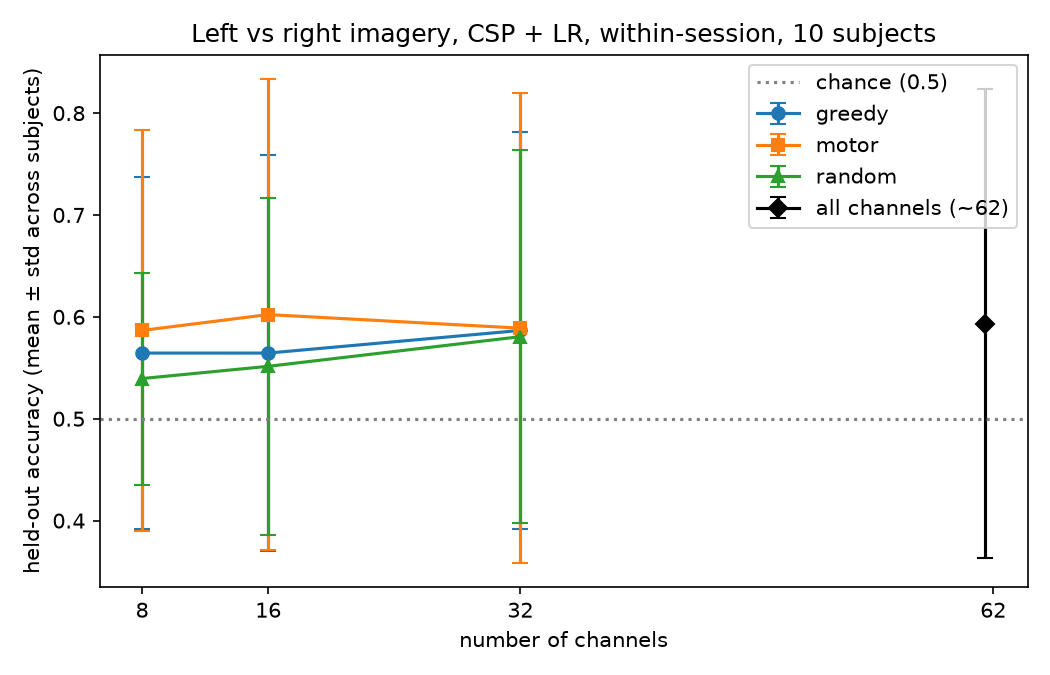
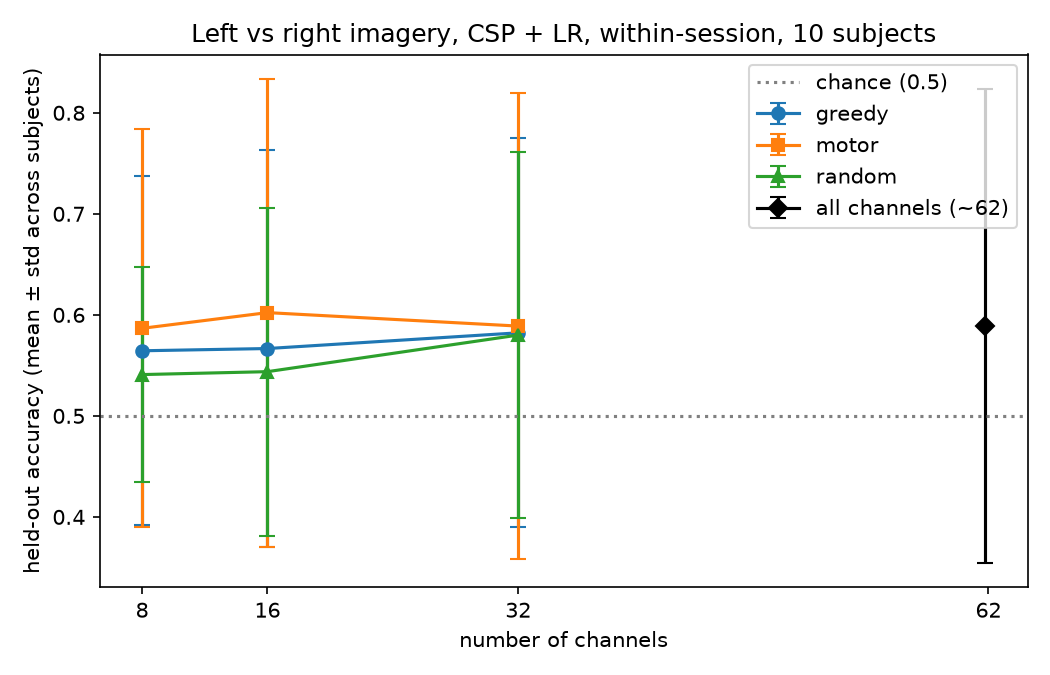
Kept quiet channels in bad-channel check and shared channel set across sessions

diff --git a/preprocess.py b/preprocess.py
@@ -10,10 +10,26 @@ def prepare_epochs(subject=1):
     return epochs_from_raw(raw, events)
 
 
+FLAT_STD = 1e-6   # volts: below 1 uV of 8-30 Hz activity means no real signal
+NOISY_Z = 5.0     # robust z above this means unusually loud (likely a bad contact)
+
+
 def epochs_from_raw(raw, events):
     """Shared by every dataset: montage, 8-30 Hz filter, bad-channel check, epochs.
 
     `events` must mark cue onset with code 2 (left) / 3 (right).
+    """
+    raw_filtered, bad_channels = filter_and_flag(raw)
+    return make_epochs(raw_filtered, events, bad_channels)
+
+
+def filter_and_flag(raw):
+    """Attach the montage, band-pass 8-30 Hz, and flag flat or noisy EEG channels.
+
+    One-sided on purpose: a channel that is merely quieter than the rest is kept.
+    Low amplitude can be real signal (e.g. BNCI's C5 sits next to the reference
+    and still correlates ~0.9 with C3); a loud channel usually means a bad contact.
+    Uses no labels, so it can't leak class information.
     """
     montage = mne.channels.make_standard_montage("colin27_1005")
     raw.set_montage(montage)
@@ -33,14 +49,18 @@ def epochs_from_raw(raw, events):
     bad_channels = []
     print("Median channel std:", round(median * 1e6, 1), "uV")
     for name, std, z in zip(eeg_names, channel_std, robust_z):
-        if std < 1e-6:
+        if std < FLAT_STD:
             print(f"FLAT    {name}: std = {std * 1e6:.1f} uV")
             bad_channels.append(name)
-        elif abs(z) > 5:
-            print(f"OUTLIER {name}: std = {std * 1e6:.1f} uV, robust z = {z:.1f}")
+        elif z > NOISY_Z:
+            print(f"NOISY   {name}: std = {std * 1e6:.1f} uV, robust z = {z:.1f}")
             bad_channels.append(name)
+    return raw_filtered, bad_channels
 
-    raw_filtered.info["bads"] = bad_channels
+
+def make_epochs(raw_filtered, events, bad_channels):
+    """Cut left/right epochs (-0.5 to 4.0 s around the cue), dropping `bad_channels`."""
+    raw_filtered.info["bads"] = list(bad_channels)
 
     epochs = mne.Epochs(
         raw_filtered,

diff --git a/load_bnci.py b/load_bnci.py
@@ -24,7 +24,7 @@ import mne
 import numpy as np
 from moabb.datasets import BNCI2014_001
 
-from preprocess import epochs_from_raw
+from preprocess import epochs_from_raw, filter_and_flag, make_epochs
 
 SESSIONS = {"T": "0train", "E": "1test"}
 # MOABB codes -> the codes used for PhysioNet (load_data.EVENT_ID), so the
@@ -49,15 +49,32 @@ def load_session(subject, session):
 
 
 def prepare_bnci_epochs(subject, session="T"):
-    """Same preprocessing as PhysioNet: 8-30 Hz, bad-channel check, epochs -0.5 to 4.0 s."""
+    """One session on its own: 8-30 Hz, bad-channel check, epochs -0.5 to 4.0 s."""
     raw, events = load_session(subject, session)
     return epochs_from_raw(raw, events)
 
 
+def prepare_bnci_sessions(subject):
+    """Both sessions with the SAME channel set, for cross-session use.
+
+    Each session is checked separately; a channel flagged in either session is
+    dropped from both, so a model trained on session T can be applied to E.
+    The check uses no labels, so looking at session E here leaks nothing.
+    """
+    filtered, events, bads = {}, {}, set()
+    for session in SESSIONS:
+        raw, events[session] = load_session(subject, session)
+        filtered[session], session_bads = filter_and_flag(raw)
+        bads.update(session_bads)
+    epochs = {s: make_epochs(filtered[s], events[s], sorted(bads)) for s in SESSIONS}
+    assert epochs["T"].ch_names == epochs["E"].ch_names
+    return epochs
+
+
 if __name__ == "__main__":
     mne.set_log_level("WARNING")
-    for session in SESSIONS:
-        epochs = prepare_bnci_epochs(1, session)
+    sessions = prepare_bnci_sessions(1)
+    for session, epochs in sessions.items():
         y = epochs.events[:, 2]
         print(
             f"subject 1, session {session}: {len(y)} trials "

diff --git a/AGENTS.md b/AGENTS.md
@@ -174,12 +174,12 @@ Any prototype must prioritize **electrical safety, isolation, and suitable acqui
 | --- | --- |
 | Documentation (this file, README, learning blueprint) | Implemented |
 | Dataset loading (eegmmidb) | Implemented, untested — `load_data.py` loads subject 1, runs 4/8/12, renames T0/T1/T2 per run before concatenating (checked by hand: 23 left / 22 right / 45 rest) |
-| Dataset loading (BCI Competition IV 2a) | Implemented, untested — `load_bnci.py` via MOABB 1.7.2 (`BNCI2014_001`), data in `data/MNE-bnci-data/`. Checked by hand against the raw .mat file: EEG samples identical, MOABB's stim events mark trial start, so events are shifted +2 s to cue onset. Subject 1: 144 trials per session (72 left / 72 right), 22 EEG channels (C5 flagged as low-variance outlier in both sessions), 250 Hz. Quick CSP 5-fold check: session T 0.827 ± 0.114, session E 0.910 ± 0.040. License CC BY-ND 4.0: don't commit derived data. |
-| Preprocessing & channel validation | Implemented, untested — `preprocess.py`: `colin27_1005` montage, 8–30 Hz band-pass, robust-z bad-channel check on filtered data (threshold \|z\| > 5; subject 1 flags T10), epochs −0.5 to 4.0 s for left/right → shape (45, 63, 721) |
-| Full-channel baseline | Implemented, untested — `baseline.py`: log band power (0.5–4.0 s) + L2 logistic regression, stratified 5-fold, seed 0. Subject 1, within-session: accuracy 0.533 ± 0.093 vs 0.511 majority-class (24/45 vs 23/45). CSP (6 filters, log-variance, fit inside each training fold) + logistic regression on the same folds: 0.778 ± 0.157. |
-| Channel subset optimization | Implemented, untested — `select_channels.py`: greedy forward selection with CSP + LR, scored by inner 5-fold CV on training trials only; objective `accuracy − 0.005·|S|` picks a size along the greedy path. Subject 1, within-session, outer 5-fold: full 63ch 0.778 ± 0.157, greedy 8ch 0.644 ± 0.183, 16ch 0.711 ± 0.099, 32ch 0.689 ± 0.214, penalized (5–16ch) 0.667 ± 0.136. Chosen channels differ a lot between folds (no channel picked in more than 3/5 folds for the 8-channel set). ~9 min on 12 cores. |
+| Dataset loading (BCI Competition IV 2a) | Implemented, untested — `load_bnci.py` via MOABB 1.7.2 (`BNCI2014_001`), data in `data/MNE-bnci-data/`. Checked by hand against the raw .mat file: EEG samples identical, MOABB's stim events mark trial start, so events are shifted +2 s to cue onset. Subject 1: 144 trials per session (72 left / 72 right), 22 EEG channels, 250 Hz. `prepare_bnci_sessions()` gives both sessions the same channel set (a channel flagged in either session is dropped from both); no channel is flagged in any of the 9 subjects. C5 is 15–40% quieter than the median channel in every subject but correlates 0.92–0.95 with C3, so it is real signal (likely near the left-mastoid reference). Quick CSP 5-fold check, subject 1: session T 0.827 ± 0.087, session E 0.916 ± 0.060. License CC BY-ND 4.0: don't commit derived data. |
+| Preprocessing & channel validation | Implemented, untested — `preprocess.py`: `colin27_1005` montage, 8–30 Hz band-pass, one-sided bad-channel check on filtered EEG channels: flat (std < 1 µV) or noisy (robust z > +5). Quiet channels are kept, since low amplitude can be real signal (until 2026-10-26 the check was two-sided \|z\| > 5 and dropped T10 in PhysioNet subjects 1/3/4). Epochs −0.5 to 4.0 s for left/right → subject 1 shape (45, 64, 721) |
+| Full-channel baseline | Implemented, untested — `baseline.py`: log band power (0.5–4.0 s) + L2 logistic regression, stratified 5-fold, seed 0. Subject 1, within-session, 64 channels: accuracy 0.556 ± 0.079 vs 0.511 majority-class (23/45). CSP (6 filters, log-variance, fit inside each training fold) + logistic regression on the same folds: 0.800 ± 0.183. |
+| Channel subset optimization | Implemented, untested — `select_channels.py`: greedy forward selection with CSP + LR, scored by inner 5-fold CV on training trials only; objective `accuracy − 0.005·|S|` picks a size along the greedy path. Subject 1, within-session, outer 5-fold: full 64ch 0.800 ± 0.183, greedy 8ch 0.644 ± 0.183, 16ch 0.733 ± 0.099, 32ch 0.644 ± 0.183, penalized (5–12ch) 0.667 ± 0.136. Chosen channels differ a lot between folds (no channel picked in more than 3/5 folds for the 8-channel set). |
 | Evaluation framework (nested CV) | Implemented, untested — nested CV in `select_channels.py` (outer 5-fold seed 0, same folds as `baseline.py`). `fast_csp.py`: CSP on per-trial covariance matrices, checked to give identical fold scores to `mne.decoding.CSP`; greedy selection takes ~2.5 min per subject on one core. |
-| Multi-subject comparison | Implemented, untested — `evaluate.py`: subjects 1–10, within-session, CSP + LR. Mean ± std across subjects: all channels 0.593 ± 0.230; 8ch greedy 0.564 ± 0.173 / motor strip 0.587 ± 0.197 / random 0.539 ± 0.104; 16ch 0.564 / 0.602 / 0.551; 32ch 0.587 / 0.589 / 0.581. Paired greedy − motor: −0.022 (8ch), −0.038 (16ch), −0.002 (32ch). Only subjects 1, 2, 7 decode clearly above chance with all channels. Figure: `results/accuracy_vs_channels.png`. ~12 min on 12 cores. |
+| Multi-subject comparison | Implemented, untested — `evaluate.py`: subjects 1–10, within-session, CSP + LR. Mean ± std across subjects: all channels 0.589 ± 0.235; 8ch greedy 0.564 ± 0.173 / motor strip 0.587 ± 0.197 / random 0.541 ± 0.106; 16ch 0.567 / 0.602 / 0.544; 32ch 0.582 / 0.589 / 0.580. Paired greedy − motor: −0.022 (8ch), −0.036 (16ch), −0.007 (32ch). Only subjects 1, 2, 7 decode clearly above chance with all channels. Figure: `results/accuracy_vs_channels.png`. ~12 min on 12 cores. |
 | Personalized recommendations | Planned — `evaluate.py` prints each subject's greedy 8-channel picks, but they are unstable across folds |
 | Real-time inference / LSL | Planned (optional) |
 | `streamer.py` (LSL EEG simulator) | Implemented, untested (optional extension) |

diff --git a/README.md b/README.md
@@ -12,14 +12,17 @@ Pipeline so far (Phases 1–4 on subject 1, Phase 5 on subjects 1–10):
 
 - `load_data.py`: `load_subject()` downloads runs 4, 8, and 12, renames T0/T1/T2 per run before concatenating, and returns `raw, events, event_id`.
 - `preprocess.py`: attaches a montage, band-pass filters 8–30 Hz, flags and removes bad channels, and cuts left/right epochs. `prepare_epochs()` returns those epochs.
-- `baseline.py`: log band power (0.5–4.0 s) and L2 logistic regression, scored with stratified 5-fold cross-validation (seed 0). Subject 1, within-session: accuracy 0.533 ± 0.093 vs 0.511 for always guessing the larger class, so no evidence it beats chance yet. Common spatial patterns (CSP, 6 filters fit inside each training fold) + logistic regression on the same folds: 0.778 ± 0.157.
+- `baseline.py`: log band power (0.5–4.0 s) and L2 logistic regression, scored with stratified 5-fold cross-validation (seed 0). Subject 1, within-session: accuracy 0.556 ± 0.079 vs 0.511 for always guessing the larger class, so no evidence it beats chance yet. Common spatial patterns (CSP, 6 filters fit inside each training fold) + logistic regression on the same folds: 0.800 ± 0.183.
 
-- `select_channels.py`: greedy forward channel selection inside nested cross-validation (channels chosen on training trials only). Subject 1, within-session: 8 channels 0.644 ± 0.183, 16 channels 0.711 ± 0.099, 32 channels 0.689 ± 0.214, vs 0.778 ± 0.157 for all 63. Fewer channels lost accuracy here, and the chosen channels changed from fold to fold.
+- `select_channels.py`: greedy forward channel selection inside nested cross-validation (channels chosen on training trials only). Subject 1, within-session: 8 channels 0.644 ± 0.183, 16 channels 0.733 ± 0.099, 32 channels 0.644 ± 0.183, vs 0.800 ± 0.183 for all 64. Fewer channels lost accuracy here, and the chosen channels changed from fold to fold.
 
 - `fast_csp.py`: CSP computed from per-trial covariance matrices. Same fold scores as MNE's CSP, and makes greedy selection several times faster.
-- `evaluate.py`: compares all channels, greedy subsets, a fixed motor-strip set (C3/C4/Cz outward), and random subsets on subjects 1–10, within-session. All channels 0.593 ± 0.230 across subjects; at 8 channels greedy 0.564, motor strip 0.587, random 0.539. Greedy did not beat the fixed motor strip, and only 3 of 10 subjects decode clearly above chance. Plot: `results/accuracy_vs_channels.png`.
+- `evaluate.py`: compares all channels, greedy subsets, a fixed motor-strip set (C3/C4/Cz outward), and random subsets on subjects 1–10, within-session. All channels 0.589 ± 0.235 across subjects; at 8 channels greedy 0.564, motor strip 0.587, random 0.541. Greedy did not beat the fixed motor strip, and only 3 of 10 subjects decode clearly above chance. Plot: `results/accuracy_vs_channels.png`.
 
-Learning-blueprint Phases 1–5 are now implemented for left vs right imagery. Existing scripts from the original blueprint:
+- `load_bnci.py`: loads BCI Competition IV 2a (9 subjects, 2 sessions on different days, 144 left/right trials per session, 22 channels) through MOABB. `prepare_bnci_sessions()` gives both sessions the same channel set for cross-session tests.
+- The bad-channel check only drops flat or unusually noisy channels; quiet channels are kept, since they can still carry real signal.
+
+Learning-blueprint Phases 1–5 are now implemented for left vs right imagery. Next: run the pipeline on BCI Competition IV 2a, then pick channels on session 1 and test them on session 2. Existing scripts from the original blueprint:
 
 - `streamer.py`: a working simulated 4-channel EEG stream over LSL (untested). It's an optional extension for testing real-time infrastructure; simulated data can't show real BCI performance.
 - `detector.py`: a stub (TODOs only) for LSL band power and a focus score.
